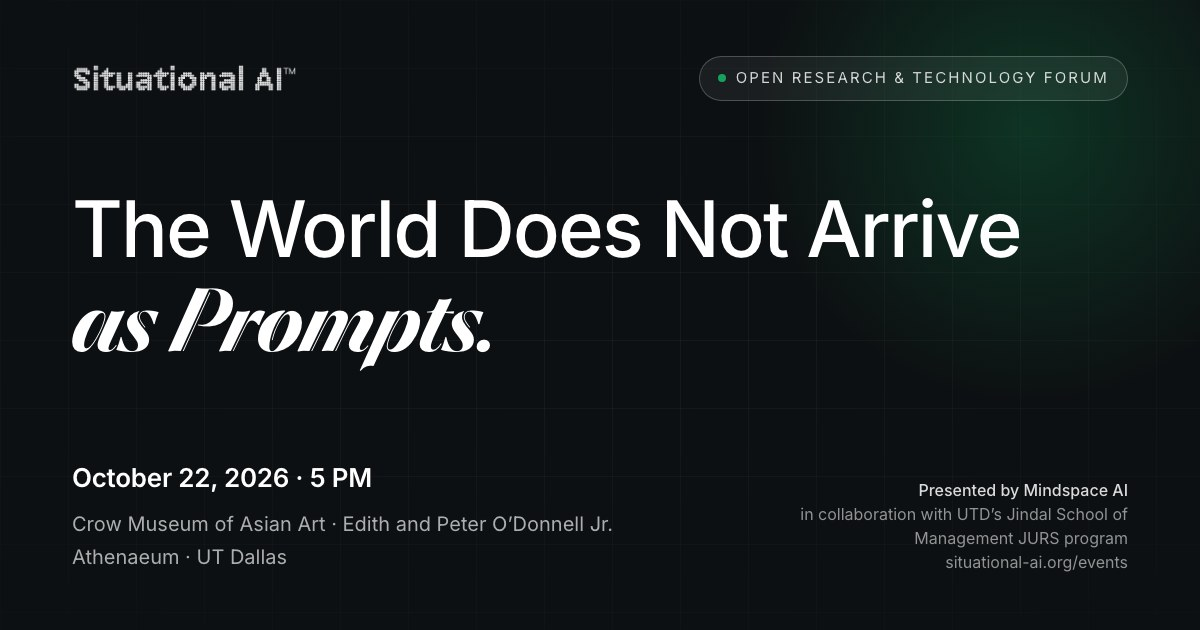
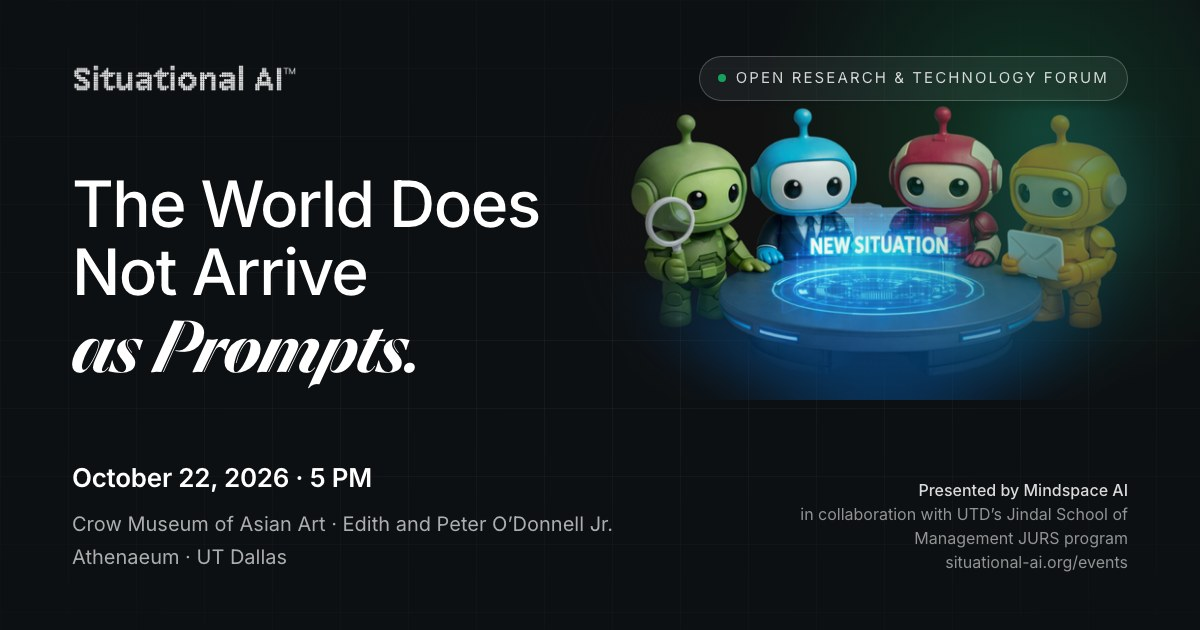
design: bring the mascots onto the forum share card

Changed region(s): [[0.0617, 0.1508, 0.9558, 0.6333]]

diff --git a/tools/og-forum-2026-10-22.html b/tools/og-forum-2026-10-22.html
@@ -30,6 +30,7 @@
       border-radius: 50%; background: radial-gradient(circle, rgba(16,128,74,.32), transparent 62%);
     }
     .card > * { position: relative; z-index: 1; }
+    .card > .mascots { position: absolute; z-index: 0; }
     .top { display: flex; align-items: center; justify-content: space-between; }
     .top img { height: 34px; filter: brightness(0) invert(1); }
     .eyebrow {
@@ -38,7 +39,9 @@
       font-size: 15px; letter-spacing: .14em; text-transform: uppercase; color: rgba(255,255,255,.82);
     }
     .eyebrow i { width: 8px; height: 8px; border-radius: 50%; background: #17A15C; }
-    h1 { margin: 0; color: #fff; font-weight: 500; font-size: 78px; line-height: 1.06; letter-spacing: -.025em; }
+    h1 { margin: 0; max-width: 560px; color: #fff; font-weight: 500; font-size: 64px; line-height: 1.06; letter-spacing: -.025em; }
+    /* The mascots from the site artwork, feathered into the ground on the right. */
+    .mascots { position: absolute; right: 20px; top: 96px; width: 600px; z-index: 0; }
     h1 .gradient-text {
       font-family: 'Corsiva', 'Monotype Corsiva', 'Britney', cursive, var(--font-family);
       font-weight: 400; font-size: 1.14em; display: block; padding-top: 4px;
@@ -57,7 +60,8 @@
       <img src="../assets/images/situational-ai-logo.png" alt="Situational AI">
       <span class="eyebrow"><i></i>Open Research &amp; Technology Forum</span>
     </div>
-    <h1>The World Does Not Arrive<span class="gradient-text">as Prompts.</span></h1>
+    <img class="mascots" src="og-forum-mascots.png" alt="">
+    <h1>The World Does<br>Not Arrive<span class="gradient-text">as Prompts.</span></h1>
     <div class="foot">
       <div>
         <div class="when">October 22, 2026 · 5 PM</div>
